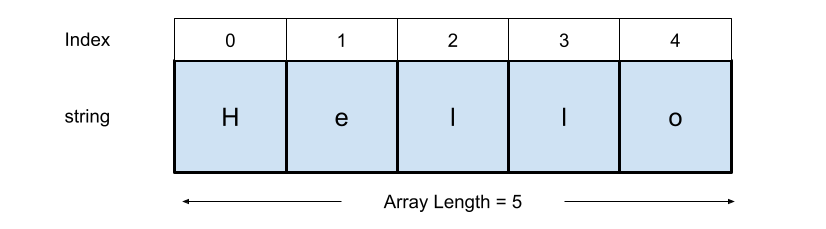
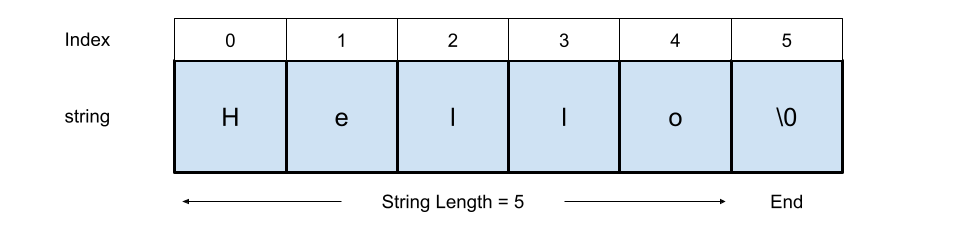
initial write up of strings - needs a final review

diff --git a/c++/data-structures/String.cpp b/c++/data-structures/String.cpp
@@ -1,0 +1,89 @@
+
+#include <iostream>
+#include <cstring>
+#include <stdexcept>
+
+// Basic String class
+class String
+{
+
+private:
+
+    // stores the data as a char[]
+    char* m_data;
+    
+    // variable to keep track of the size of a string
+    unsigned int m_size;
+
+
+public:
+
+    //
+    String():m_data(new char[1]{'\0'}),m_size(0){}
+    
+    // destructor
+    ~String()
+    {
+        // delete data
+        delete[] m_data;
+    }
+    
+    //get the length of the string
+    unsigned int get_length()
+    {
+        // return m_size
+        return m_size;
+    }
+    
+    //Append function
+    void append(const String str)
+    {
+        unsigned int new_length = m_size + str.get_length();
+        
+        
+        
+    }
+    
+    // Concatanate
+    String operator+(String& otherString)
+    {
+        
+    }
+    
+    //Access element
+    char operator[](int index)
+    {
+        // check index is within expected size
+        if (index >= m_size)
+        {
+            throw std::out_of_range("Attempting to access index outside the scope of the String");
+        }
+        
+        // Return char
+        return m_data[index];
+    }
+    
+    // return sub string, starting at start_index and ending and end_index
+    String get_substring(unsigned int start_index, unsigned int end_index)
+    {
+        // check index is within expected size
+        if (end_index >= m_size)
+        {
+            throw std::out_of_range("Attempting to access index outside the scope of the String");
+        }
+        
+    }
+    
+    bool find(String s)
+    {
+        
+        
+    }
+    
+    // Print String
+    void print()
+    {
+        //
+        std::cout << m_data << std::endl;
+    }
+}

diff --git a/docs/data-structures/strings.md b/docs/data-structures/strings.md
@@ -2,17 +2,15 @@
 layout: page
 title: Strings
 ---
-A string is a sequence of characters used to represent text, which can include letters, numbers, symbols, and spaces. 
-Strings in C++ and python are typically enclosed in quotes e.g., `""` or `''`. 
-Strings are one of the most commonly used data structures in programming used for tasks like displaying messages, processing input, or manipulating text. 
-Strings support operations like concatenation, slicing, searching, and formatting. 
-Under the hood, a string is often implemented as an [array](/data-structures/arrays) of characters with a special end marker or length field, see figure below. 
-In some languages, such as python, strings are immutable, meaning their contents cannot be changed after creation. 
+A **string** is a sequence of characters used to represent text, which can include letters, numbers, symbols, and spaces. Strings are typically defined by enclosing a series of characters in quotes e.g., "hello". Strings are one of the most commonly used data structures in programming, used for tasks like displaying messages, processing input, or manipulating text. Under the hood, a string is often implemented as an [array](/data-structures/arrays) of characters with a special end marker or length field, see figure below. In some languages, such as python, strings are immutable, meaning their contents cannot be changed after creation. 
 
-![Image of an Array](../image/string.png)
+
+
+
+![Image of a String](../image/string.png)
+
 
 ### Interface
-
 Common methods that should be implemented by a string class are: 
   
 - Length - return the length of the string
@@ -22,7 +20,9 @@ Common methods that should be implemented by a string class are:
 - Replace - replace part of a string      
 - Exists in string - check if a character or string exists within a string     
 
+
 ### Complexity
+
 
 - A string has O(n) space complexity, where n is the number of characters
 - Accessing a character of a string has O(1) time complexity - just like an array!
@@ -33,55 +33,60 @@ Common methods that should be implemented by a string class are:
 
 ## Strings in C++
 In C++, a string can be defined using C-style syntax `char[]` or using the Standard Template Library (STL) `std::string`, which is prefered due to the rich functionality built into the STL.  
-
-
 Using the `char[]` syntax, a string can be defined and printed as follows:
+
+
 ```c++
 //include iostream for output
 #include <iostream>
 
+
 // declare string
 char str[] = "Hello";
-
 // print string
 std::cout << str << std::endl;
-
+---
 Output: Hello
+---
+
 
 // print string element
 std::cout << str[3] << std::endl;
-
+---
 Output: l
-
+---
 ```
+
 
 Using the modern `std::string` class, a string can be declared as follows:
 ```c++
-//include iostrem for output
+//include iostream for output
 #include <iostream>
-
 // include string header
 #include <string>
 
+
 // declare string
 std::string myString = "Hello";
-
 // print string
 std::cout << myString << std::endl;
-
+---
 Output: Hello
+---
 ```
+
 
 The function `length()` can be used to return the length of a string, you can also use `size()`.
 ```c++
 // declare string
 std::string myString = "Hello";
-
 // get length of string 
 std::cout << myString.length() << std::endl;
-
+---
 Output: 5
+---
 ```
+
 
 Concatenation of strings can be achieved using the `+ operator`.
 ```c++
@@ -89,40 +94,48 @@ Concatenation of strings can be achieved using the `+ operator`.
 std::string myString1 = "Hello";
 std::string myString2 = "World";
 
-// Concatanate
+
+// Concatenate
 std::string myString3 = myString1 + myString2;
+
 
 // Print
 std::cout << myString3 << std::endl;
-
+---
 Output: HelloWorld
+---
 ```
 
-C++ has a wide range of built-in functions that support many types of string manipulation. 
 
+C++ has a wide range of built-in functions that support many types of string manipulation. 
 Here we see an example of using the `substr()` function, which requires the first index and length as input.
 ```c++
 // declare strings
 std::string myString = "Hello";
 
+
 // get substring
 std::string myStringSub =  myString.substr(1,3);
 
+
 // Print
 std::cout << myStringSub << std::endl;
-
+---
 Output: ell
+---
 ```
 
-Finally 
 
+Finally a demonstration of finding a substring within a larger string using the `find()` function of the string class.
 ```c++
 // initialise strings
 std::string myString1 = "Hello World, this is my String";
 std::string myString2 = "is";
 
+
 // use the find() function to check if a substring is present
 bool isFound = myString1.find(myString2) != std::string::npos;
+
 
 // verifying the result
 if (isFound)
@@ -135,74 +148,91 @@ else
     // myString2 is NOT within myString1
     std::cout << "Substring not Found" << std::endl;
 }
+
+
+---
+Output: Substring Found
+---
+
+
 ```
 
-
 ## Strings in python
+
+
 ```python
 # Declare string 
 myString = "Hello"
     
 # print string
 print(myString)
-
+---
 Output: Hello
+---
+
 
 # print string character
 print(myString[1])
-
+---
 Output: e
+---
+
 
 # Note, this operation is invalid as strings are immutable in python
 myString[0] = 'w'
-
 print(len(myString))
-
+---
 Output: 5
+---
 ```    
-
 Example of Concatenation using the `+ operator`
 ```python
 # Declare string 
 myString1 = "Hello"
 myString2 = "World"
 
+
 # Concatenate Strings
 myString3 = myString1 + myString2
-
 # Print
 print(myString3)
-
+---
 Output: HelloWorld
+---
 ```
-
 Here is an example of getting a substring
 ```python
 # Declare string 
 myString = "Hello"
-
 # get substring using [] notation
 mySubString = myString[1:4]
-
 # Print result
 print(mySubString)
-
+---
 Output: ell
+---
 ```
+
+
+
+
+
+
+
 
 Here is an example of replacing part of a string
 ```python
 # Declare string 
 myString = "Hello, here is my String"
-
 # 
 myReplacedString = myString.replace("Hello","Goodbye")
-
 # Print result
 print(myReplacedString)
-
+---
 Output: Goodbye, here is my String
+---
 ```
+
 
 Here is an example of checking if a string contains another string
 ````python
@@ -210,25 +240,28 @@ Here is an example of checking if a string contains another string
 myString1 = "Hello, here is my String"
 myString2 = "here"
 
-# find first instace of
+
+# find first instance of
 firstIndex = myString1.find(myString2)
+
 
 # myString1 contains myString2
 if firstIndex!=-1:
-
     # Print message
     print("myString1 contains myString2 starting at " + str(firstIndex))
+
 
 # myString1 does not contain myString2 
 else:
     # Print message
-    print("myString1 does not contain myString2")
-    
+    print("myString1 does not contain myString2")    
+---
 Output: myString1 contains myString2 starting at 7
+---
 ````
-
 ## Summary
-Strings may look simple, but they have depth — from encoding to performance. 
+Strings may look simple, but they have depth --- from encoding to performance. 
 - Python makes strings beginner-friendly and flexible.
 - C++ gives you more control, but also more responsibility - it is generally always best to use `std::string` over `char[]`.
-- In Python, strings are immutable—you cannot modify them after creation. In contrast, C++ std::string allows modifications like replacing or appending characters.
+- In Python, strings are immutable---you cannot modify them after creation. In contrast, C++ std::string allows modifications like replacing or appending characters.
+
